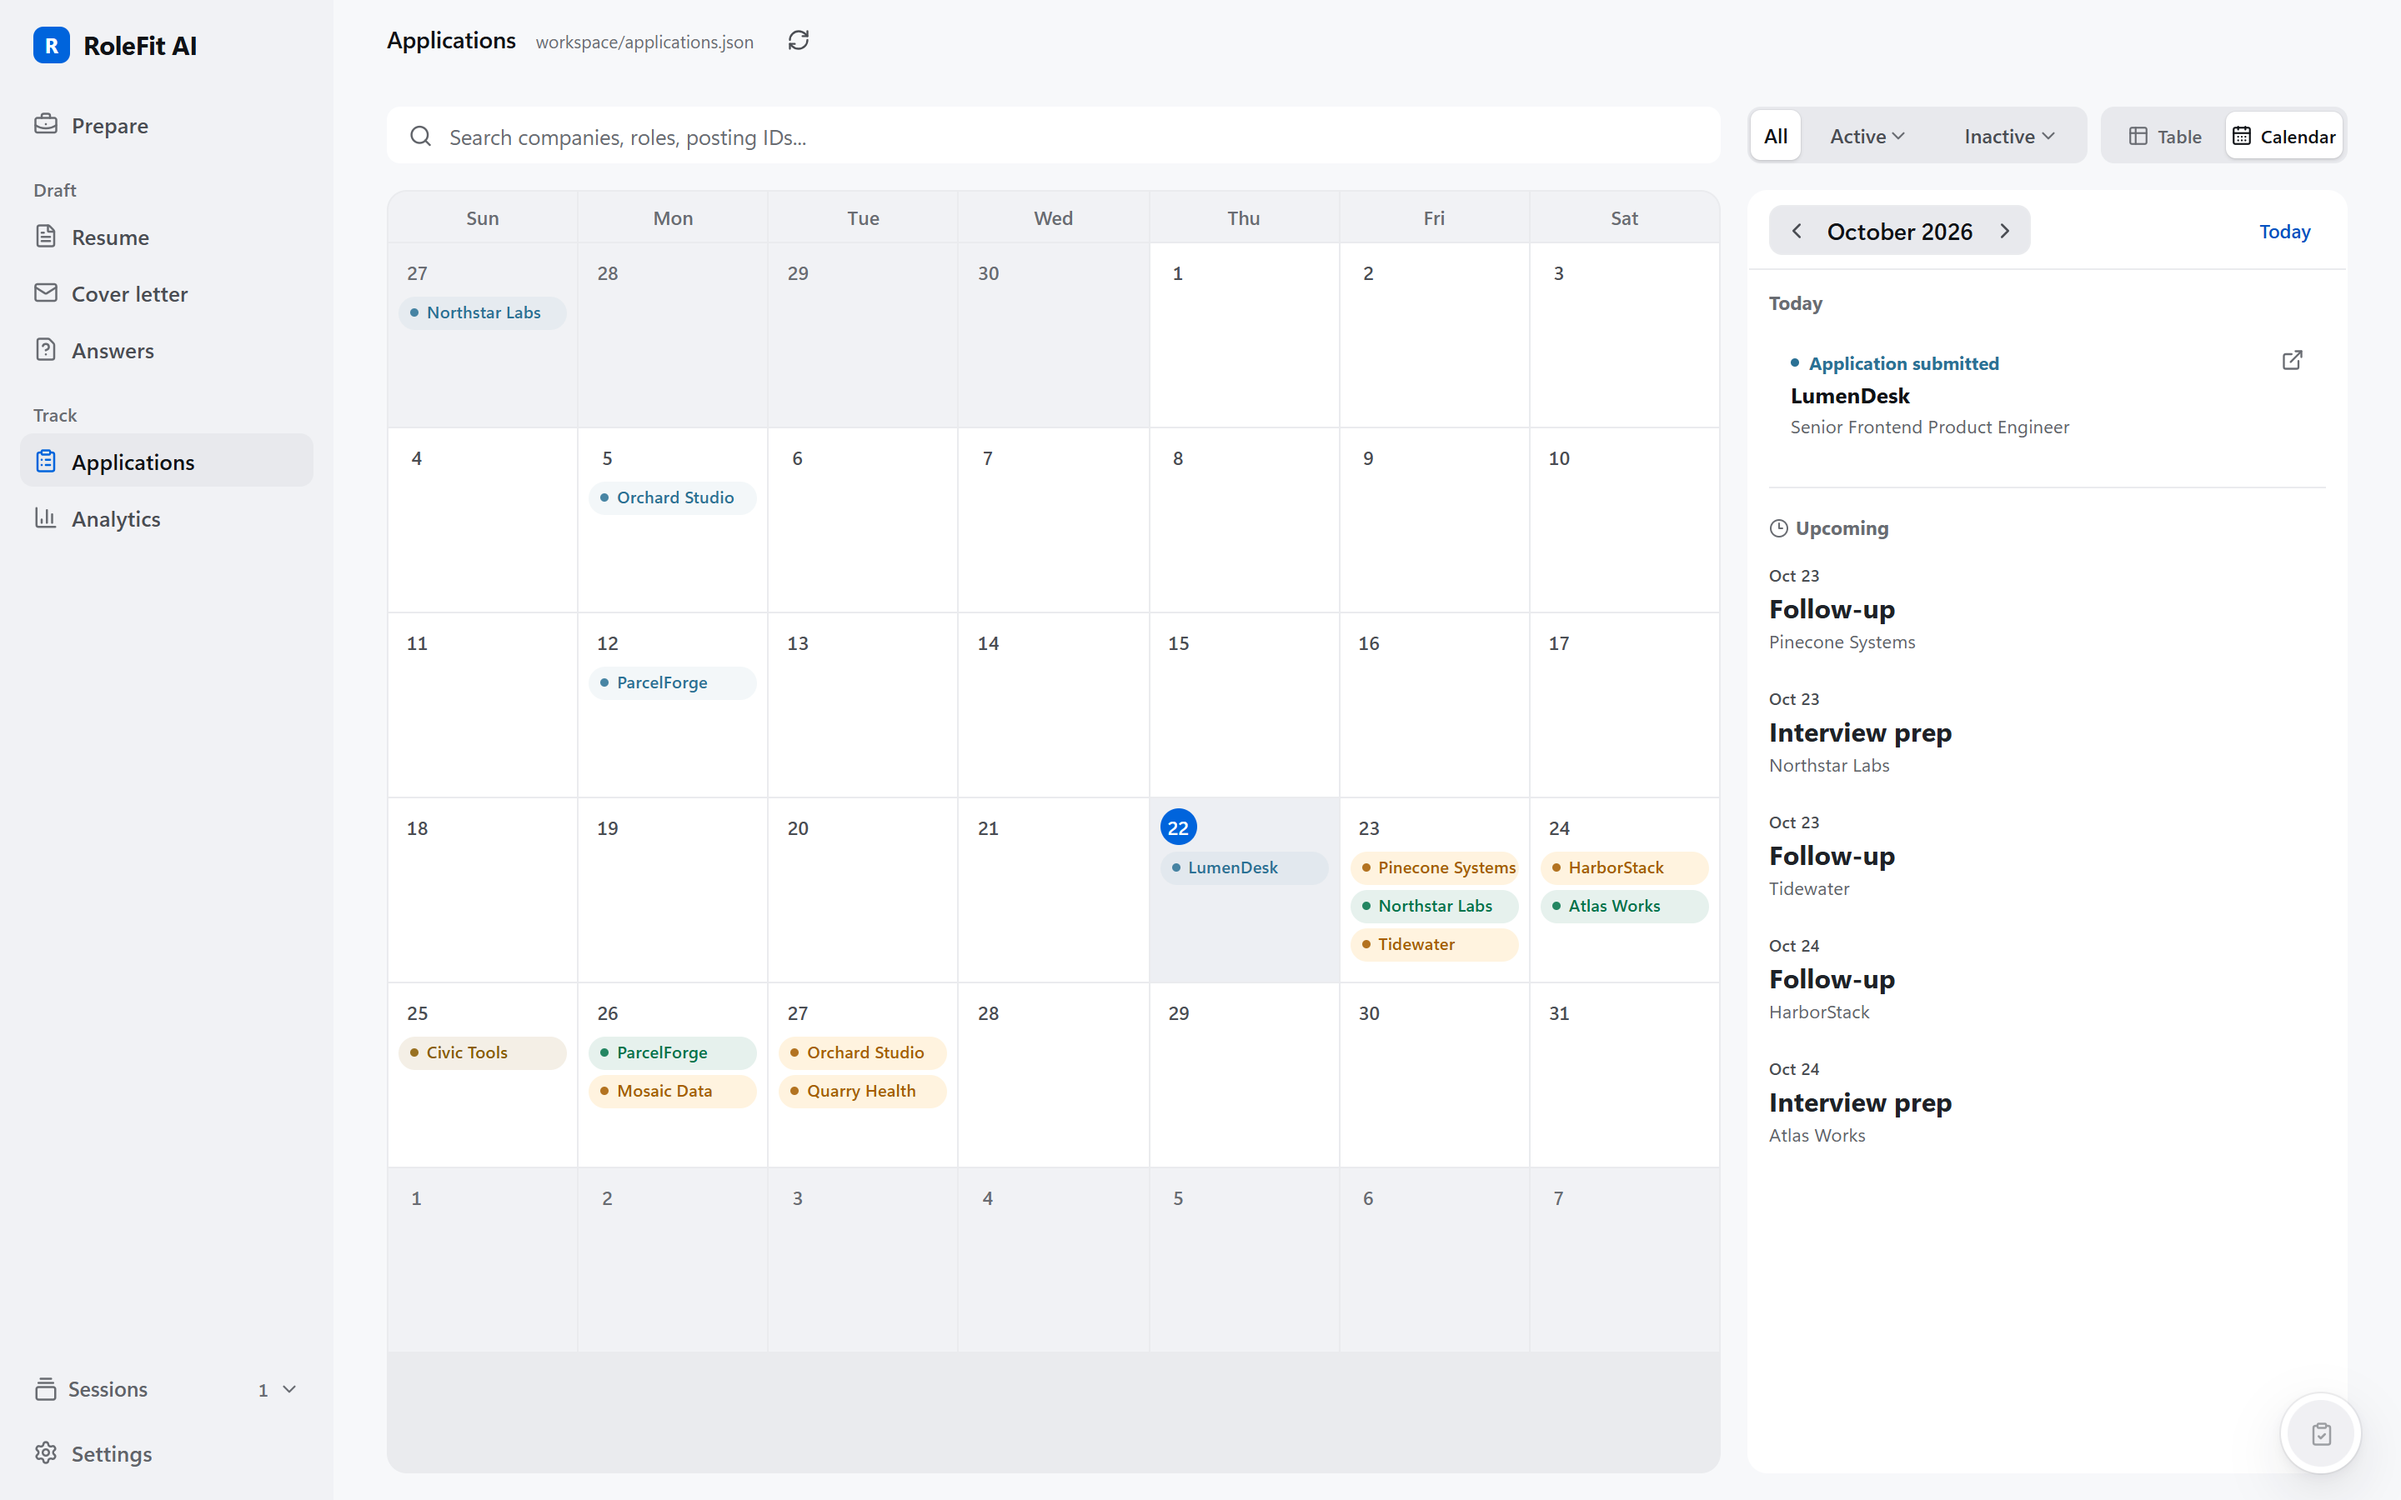
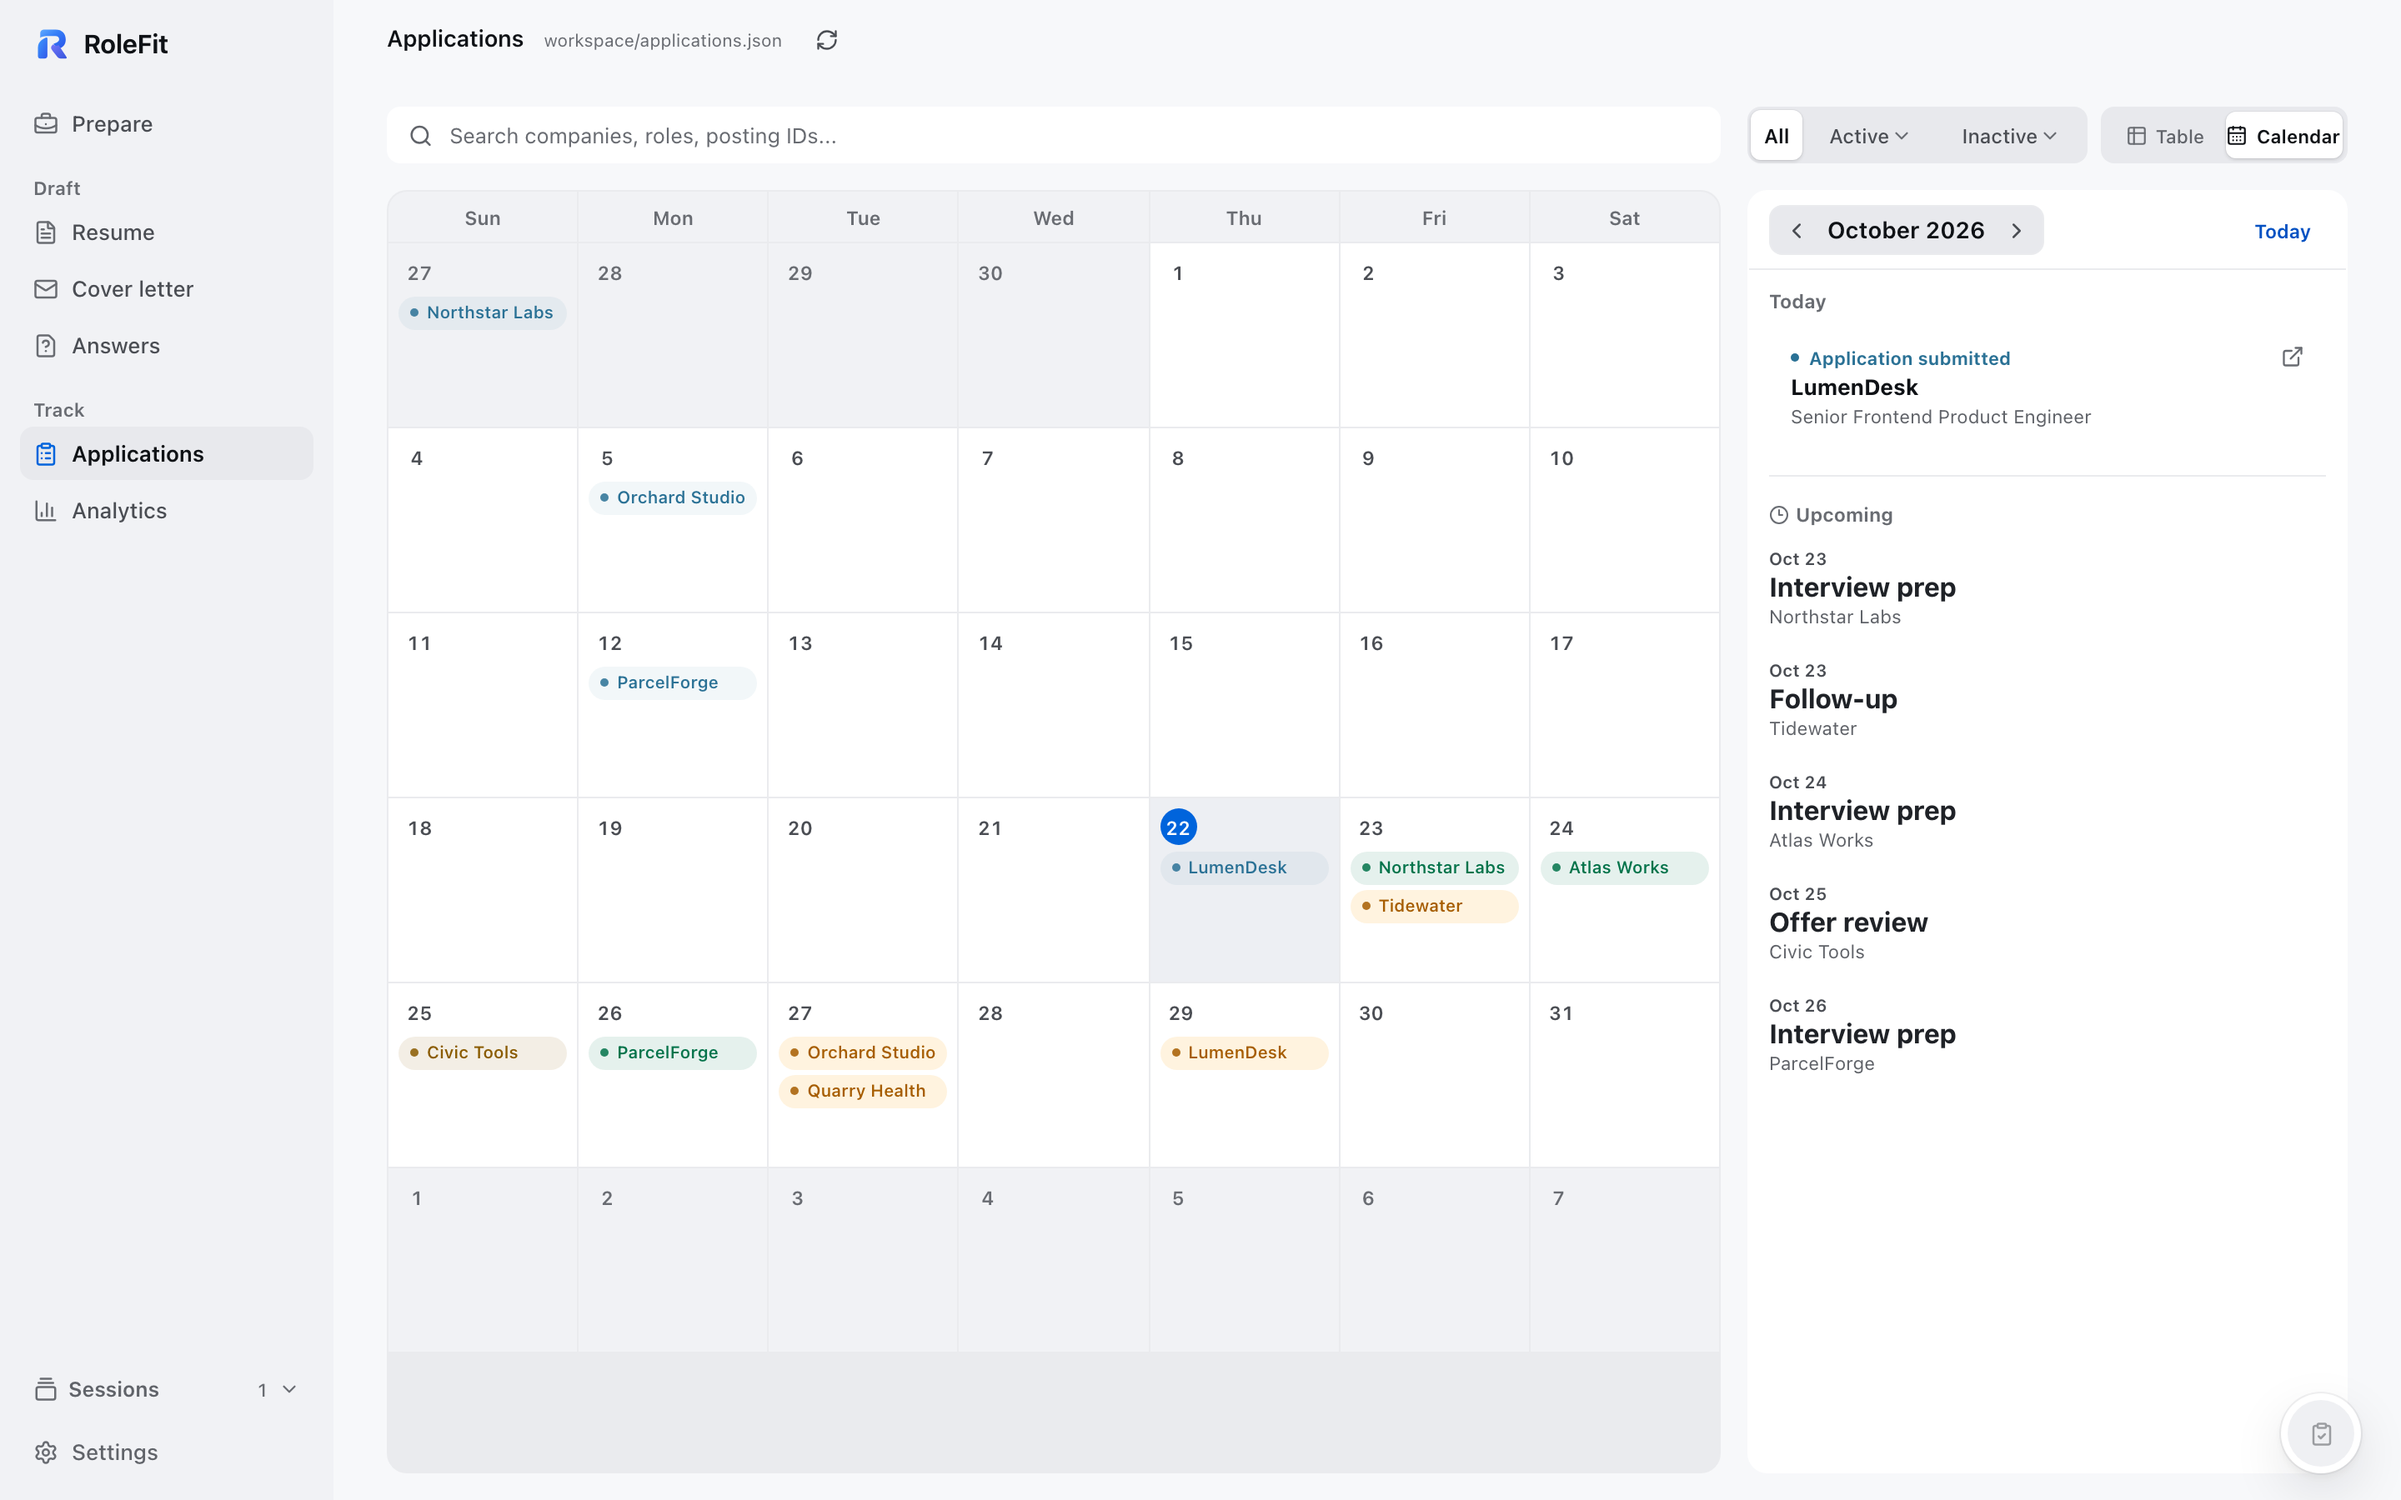
fix(rolefit): finish brand follow-ups from the #272 review (#275)
Add an Edge chip to the landing's supported-browser list, delete the unused pre-rename desktop-app.png, retake the README tracker screenshots with the new branding, and record the next release's obligations in CONTINUITY: reload the extension once for its PNG icons, bump the manifest, EXTENSION_VERSION, and notes heading together, and note that re-entering a saved API key after the rename is acceptable.

diff --git a/apps/role-fit-ai/landing/index.html b/apps/role-fit-ai/landing/index.html
@@ -237,6 +237,7 @@
           <ul class="browser-list" aria-label="Supported browsers">
             <li><img src="/assets/browsers/chrome.png" alt="" width="96" height="96" />Chrome</li>
             <li><img src="/assets/browsers/firefox.png" alt="" width="96" height="96" />Firefox</li>
+            <li><svg class="browser-list__generic" viewBox="0 0 48 48" aria-hidden="true"><g stroke="currentColor" stroke-width="3" stroke-linecap="round" stroke-linejoin="round" fill="none"><circle cx="24" cy="24" r="17"/><path d="M7 24h34M24 7c5 5 7.5 10.7 7.5 17S29 36 24 41c-5-5-7.5-10.7-7.5-17S19 12 24 7Z"/></g></svg>Edge</li>
           </ul>
         </div>
 

diff --git a/apps/role-fit-ai/landing/src/landing.css b/apps/role-fit-ai/landing/src/landing.css
@@ -870,6 +870,14 @@ h2 {
   height: 22px;
 }
 
+/* Edge gets a neutral globe, not its logo: only installed browsers' own icons
+   were available to cut, and a redrawn logo would misuse the mark. */
+.browser-list__generic {
+  width: 22px;
+  height: 22px;
+  color: var(--accent);
+}
+
 .import-flow {
   margin: 0;
 }

diff --git a/CONTINUITY.md b/CONTINUITY.md
@@ -44,16 +44,19 @@ D-entries in `docs/decisions.md`.
   (it shares the same data and, launched from the Dock, would run the old
   build); Windows updates in place but leaves a stale `RoleFit AI` shortcut
   beside the new `RoleFit` one; download file names drop "AI"; the extension
-  keeps its pairing. Its notes heading becomes `# RoleFit X.Y.Z:`, so update
-  the frozen heading assertion in `scripts/desktop-release-contract.test.mjs`
-  with that version bump. No published release (all `RoleFit-AI-*`) parses in
-  the new landing catalog, so tag a preview soon after merge. The four
+  keeps its pairing but must be reloaded once to pick up the new PNG toolbar
+  icons and its bumped version. Bump `extension/manifest.json` past 1.5.1 and,
+  in `scripts/desktop-release-contract.test.mjs`, `EXTENSION_VERSION` and the
+  frozen notes heading (now `# RoleFit X.Y.Z:`) together in that release. No
+  published release (all `RoleFit-AI-*`) parses in the new landing catalog,
+  so tag a preview soon after merge. The four
   product screenshots (landing and README twins) were retaken 2026-10-24 from
   a freshly seeded synthetic workspace (Alex Morgan / LumenDesk, built through
-  the app's own codecs and tracker sanitizer, served on 5183); the companion
-  shot `desktop-app.png` was not retaken and is no longer used on the page. An
-  installed-upgrade check (0.21.0 with a saved API key, then this build) is
-  still unrun.
+  the app's own codecs and tracker sanitizer, served on 5183), plus the three
+  README tracker shots on 2026-10-24; the unused `desktop-app.png` is deleted.
+  The installed-upgrade check (0.21.0 with a saved API key, then this build)
+  is unrun and not a release blocker: 2026-10-24 [USER] re-entering a key that
+  does not carry over is acceptable; the release notes should say so.
 
 ## Deferred backlog
 

diff --git a/apps/role-fit-ai/docs/engineering/distribution-cloud-plan.md b/apps/role-fit-ai/docs/engineering/distribution-cloud-plan.md
@@ -200,13 +200,11 @@ give automatic updates.
     128–139 (Add-on Policies 6.2.2).
   - **Firefox id.** Keep the stable `gecko.id` (`role-fit-ai@localhost`).
     Whether AMO accepts an `@localhost` id is unconfirmed.
-  - **Icons.** Chrome and Edge do not support SVG manifest icons, so Chromium
-    store builds need PNG icons (at least 128×128). The same rule probably means
-    unpacked Chrome and Edge already show a fallback toolbar icon today
-    (unverified). Generate the PNGs from `desktop/assets/generate_icons.py`,
-    which owns the brand mark; point `icons` and `action.default_icon` at them;
-    add them to `EXTENSION_FILES`; and add them to DESIGN.md's brand-mark list.
-    Firefox accepts the existing SVG.
+  - **Icons.** Done (D097): Chrome and Edge do not support SVG manifest icons,
+    so the extension now ships 16, 32, 48, and 128 px PNGs generated by
+    `desktop/assets/generate_icons.py`, listed in `EXTENSION_FILES`, and used by
+    both `icons` and `action.default_icon`. The 128 px icon meets the Chromium
+    store minimum.
   - **Validator compatibility.** Confirm that the store validators accept the
     dual `background.service_worker` and `background.scripts` keys.
 - **Packaging.** Zip the `EXTENSION_FILES` allowlist in
